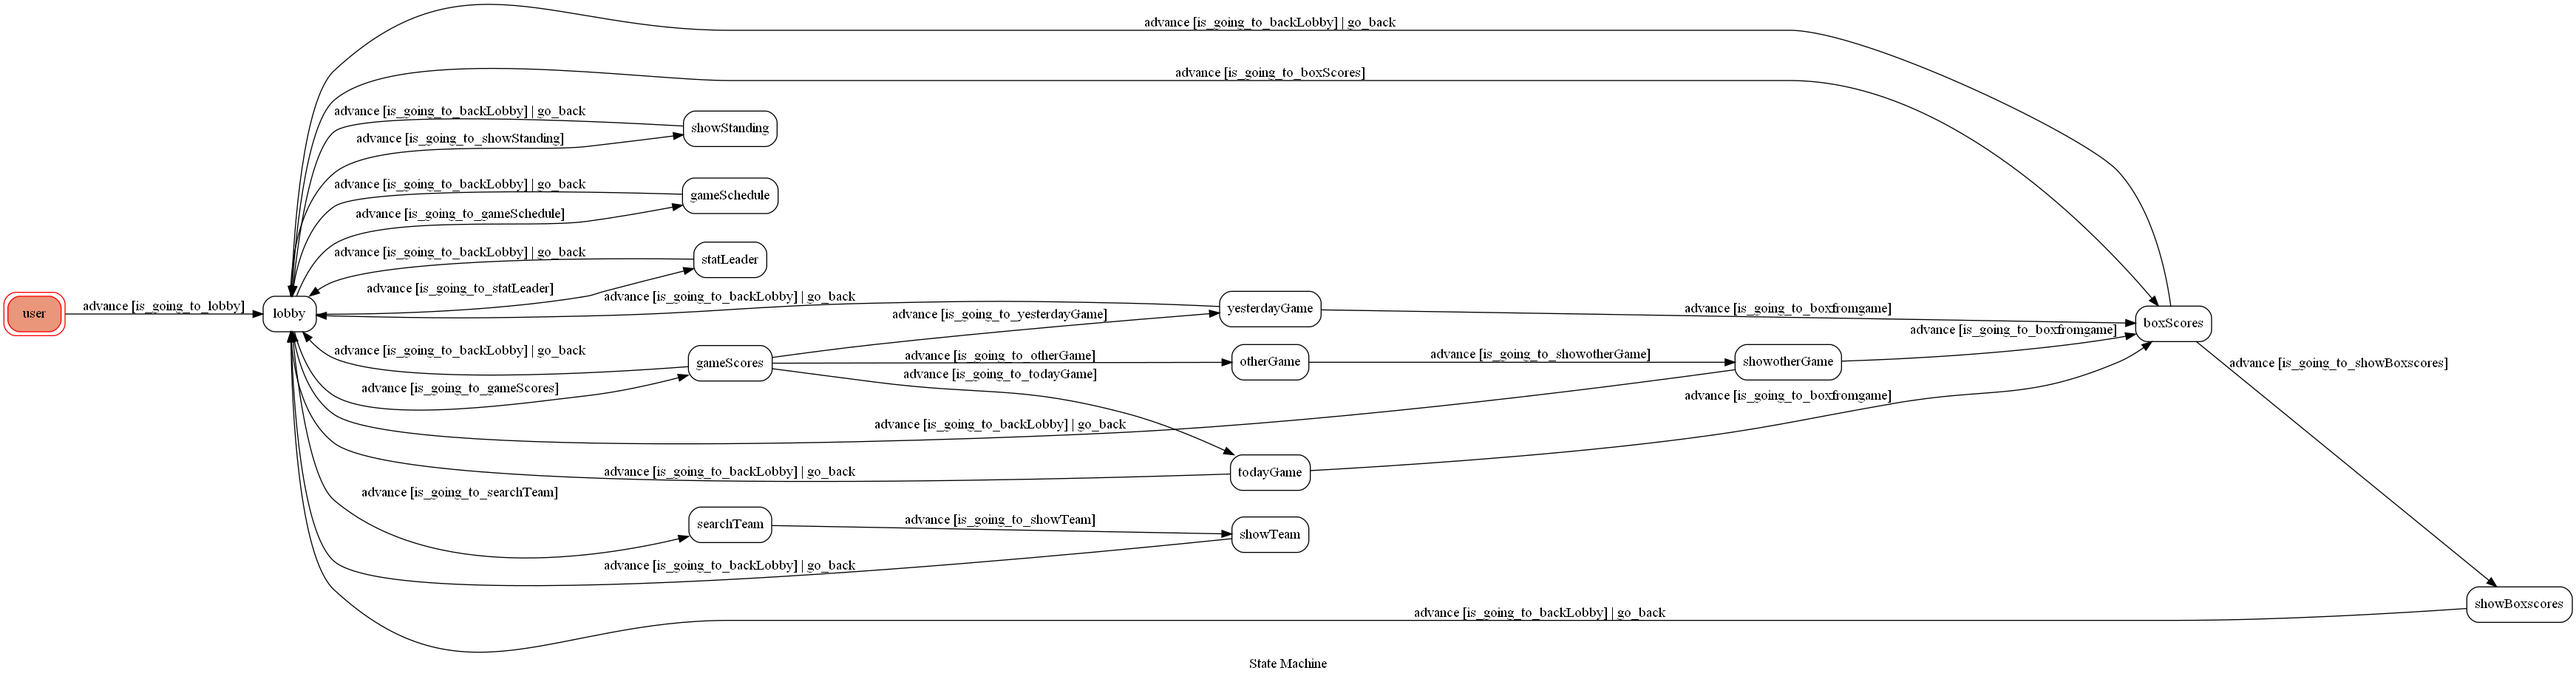
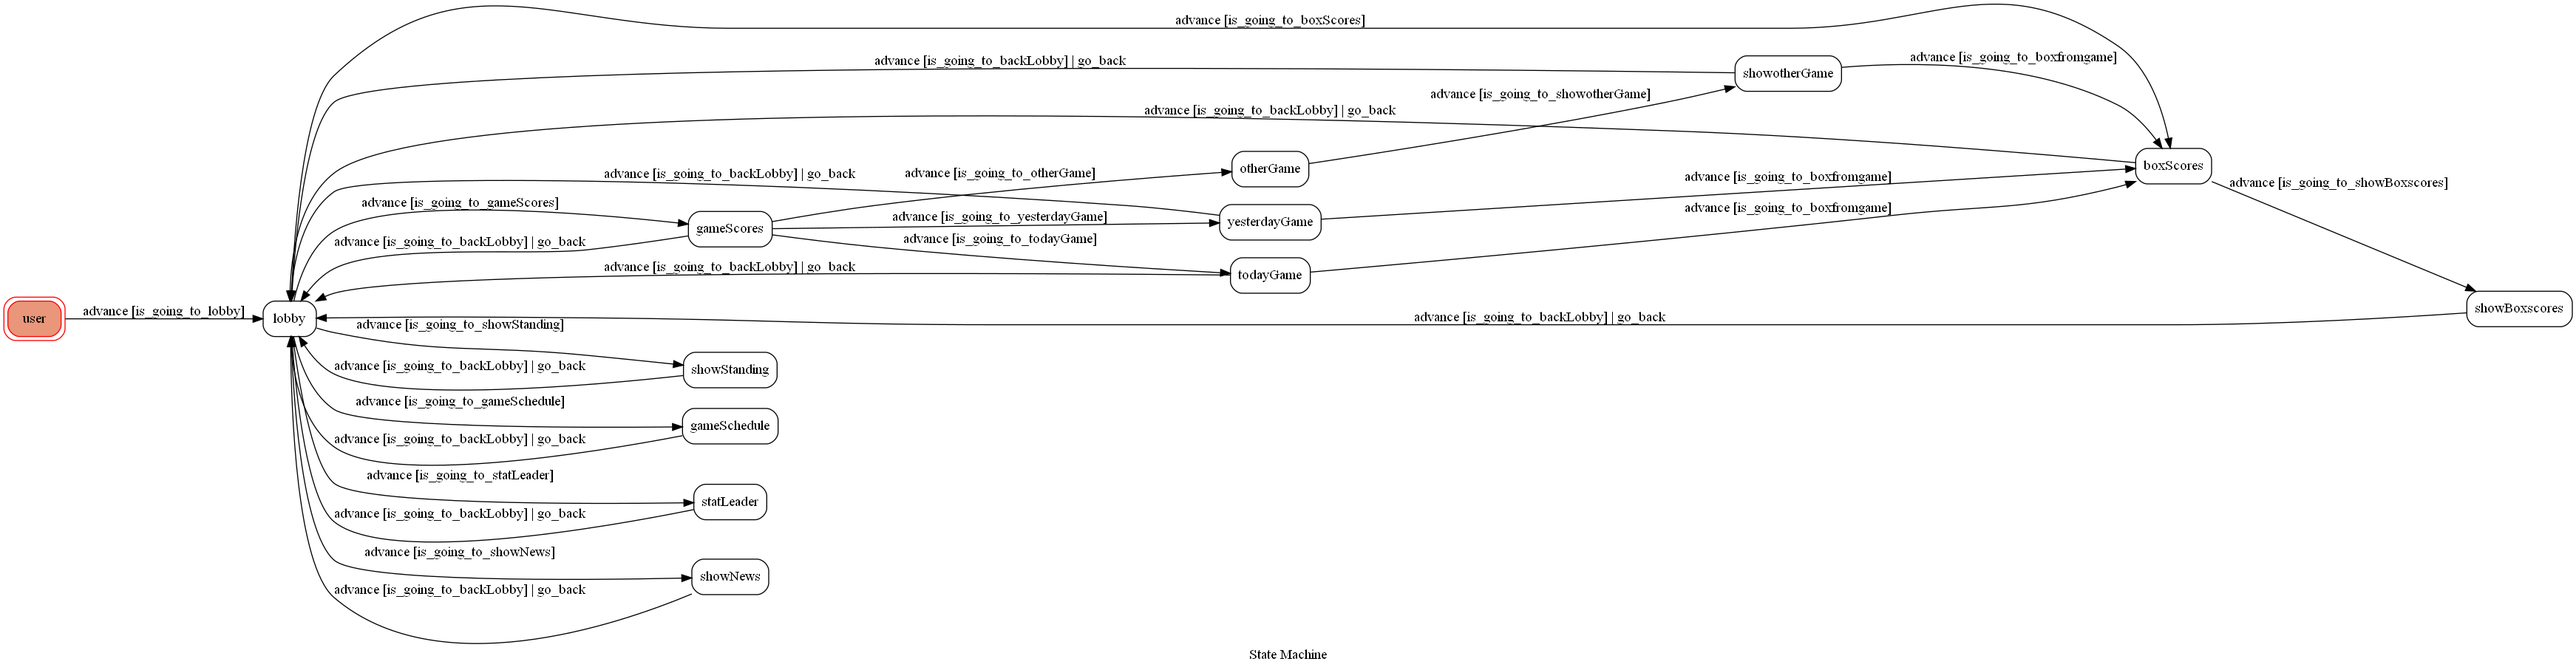
Finish 6 features

diff --git a/src/machine.py b/src/machine.py
@@ -2,7 +2,7 @@ from fsm import TocMachine
 
 def create_machine():
     machine = TocMachine(
-        states=["user", "lobby", "gameScores","todayGame","yesterdayGame","otherGame","showotherGame","boxScores", "showBoxscores","showStanding","gameSchedule", "statLeader","searchTeam","showTeam", "showNews"],
+        states=["user", "lobby", "gameScores","todayGame","yesterdayGame","otherGame","showotherGame","boxScores", "showBoxscores","showStanding","gameSchedule", "statLeader", "showNews"],
         transitions=[
             {
                 "trigger": "advance",
@@ -90,11 +90,11 @@ def create_machine():
             # },
             {
                 "trigger": "advance", 
-                "source": ["gameScores", "yesterdayGame","todayGame", "boxScores", "showotherGame","showBoxscores" , "showStanding", "gameSchedule","statLeader","showTeam", "showNews"],
+                "source": ["gameScores", "yesterdayGame","todayGame", "boxScores", "showotherGame","showBoxscores" , "showStanding", "gameSchedule","statLeader", "showNews"],
                 "dest": "lobby",
                 "conditions": "is_going_to_backLobby",
              },
-            {"trigger": "go_back", "source": ["gameScores", "yesterdayGame","todayGame","showotherGame", "boxScores", "showBoxscores", "showStanding", "gameSchedule","statLeader","showTeam", "showNews"], "dest": "lobby"},
+            {"trigger": "go_back", "source": ["gameScores", "yesterdayGame","todayGame","showotherGame", "boxScores", "showBoxscores", "showStanding", "gameSchedule","statLeader", "showNews"], "dest": "lobby"},
         ],
         initial="user",
         auto_transitions=False,

diff --git a/src/app.py b/src/app.py
@@ -94,13 +94,6 @@ def webhook_handler():
 
     return "OK"
 
-
-@app.route("/show-fsm", methods=["GET"])
-def show_fsm():
-    machine.get_graph().draw("img/fsm.png", prog="dot", format="png")
-    return send_file("../img/fsm.png", mimetype="image/png")
-
-
 if __name__ == "__main__":
     port = os.environ.get("PORT", 8000)
     app.run(host="0.0.0.0", port=port, debug=True)
